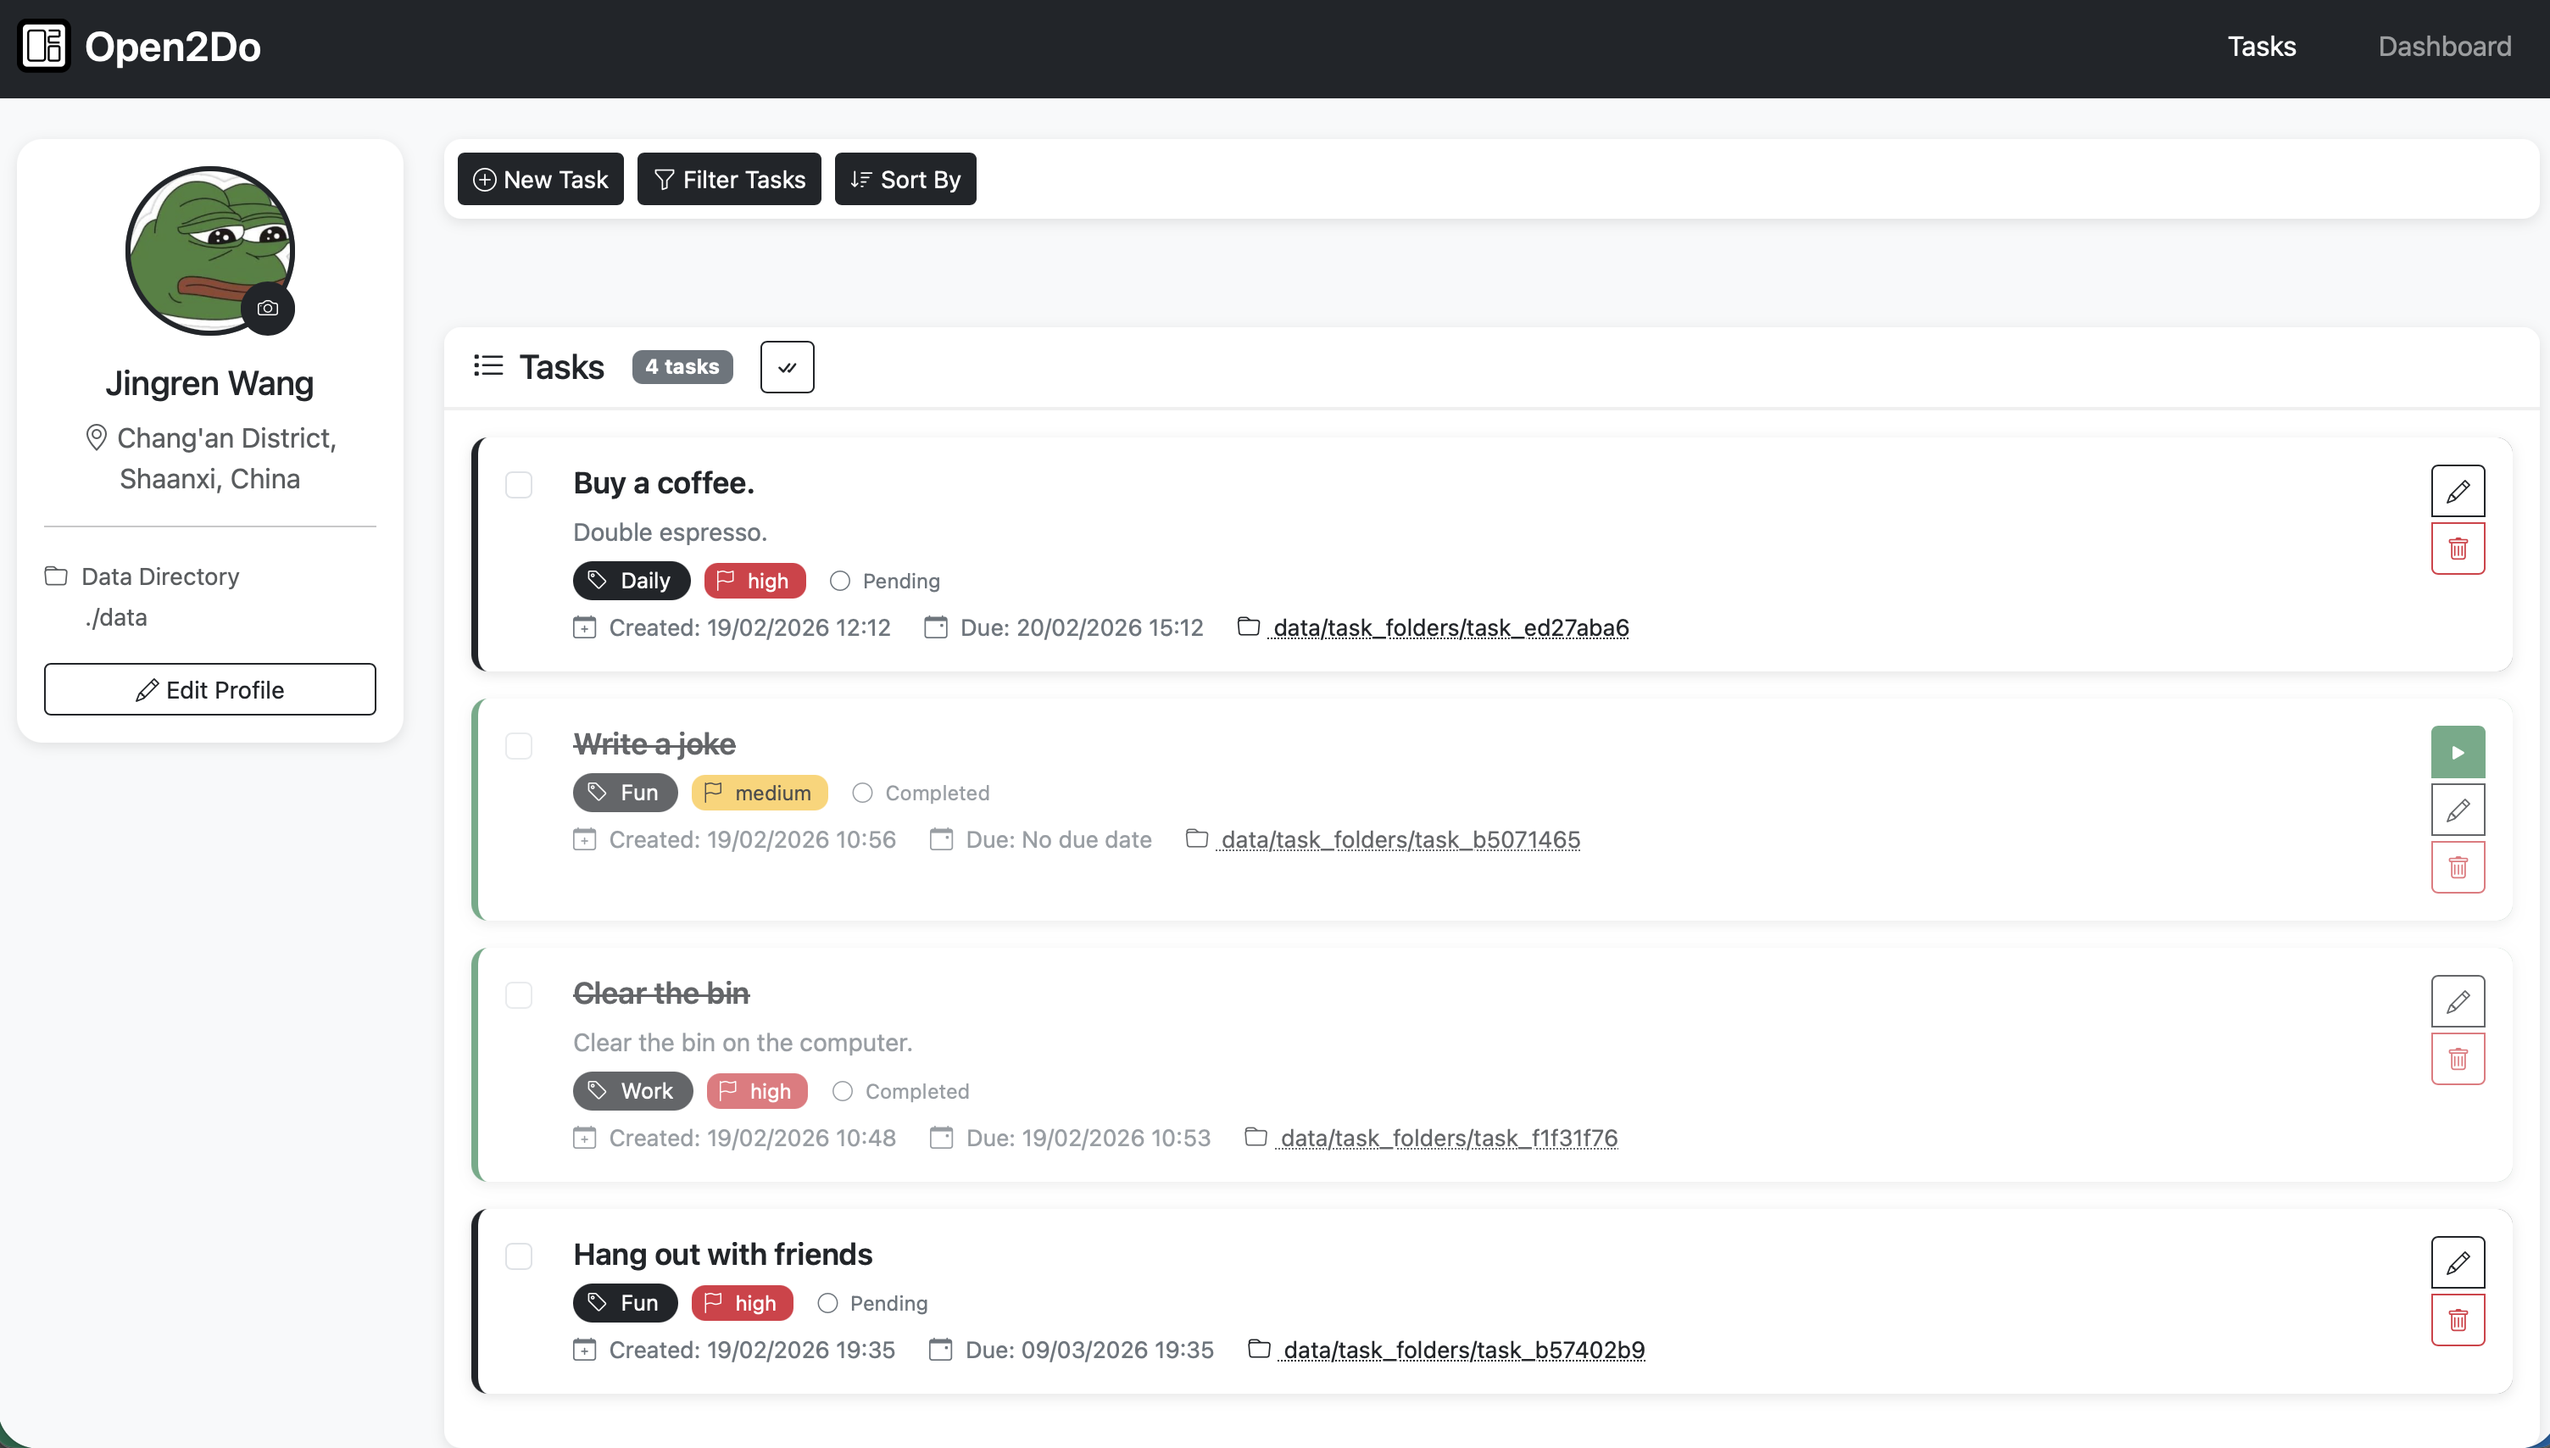
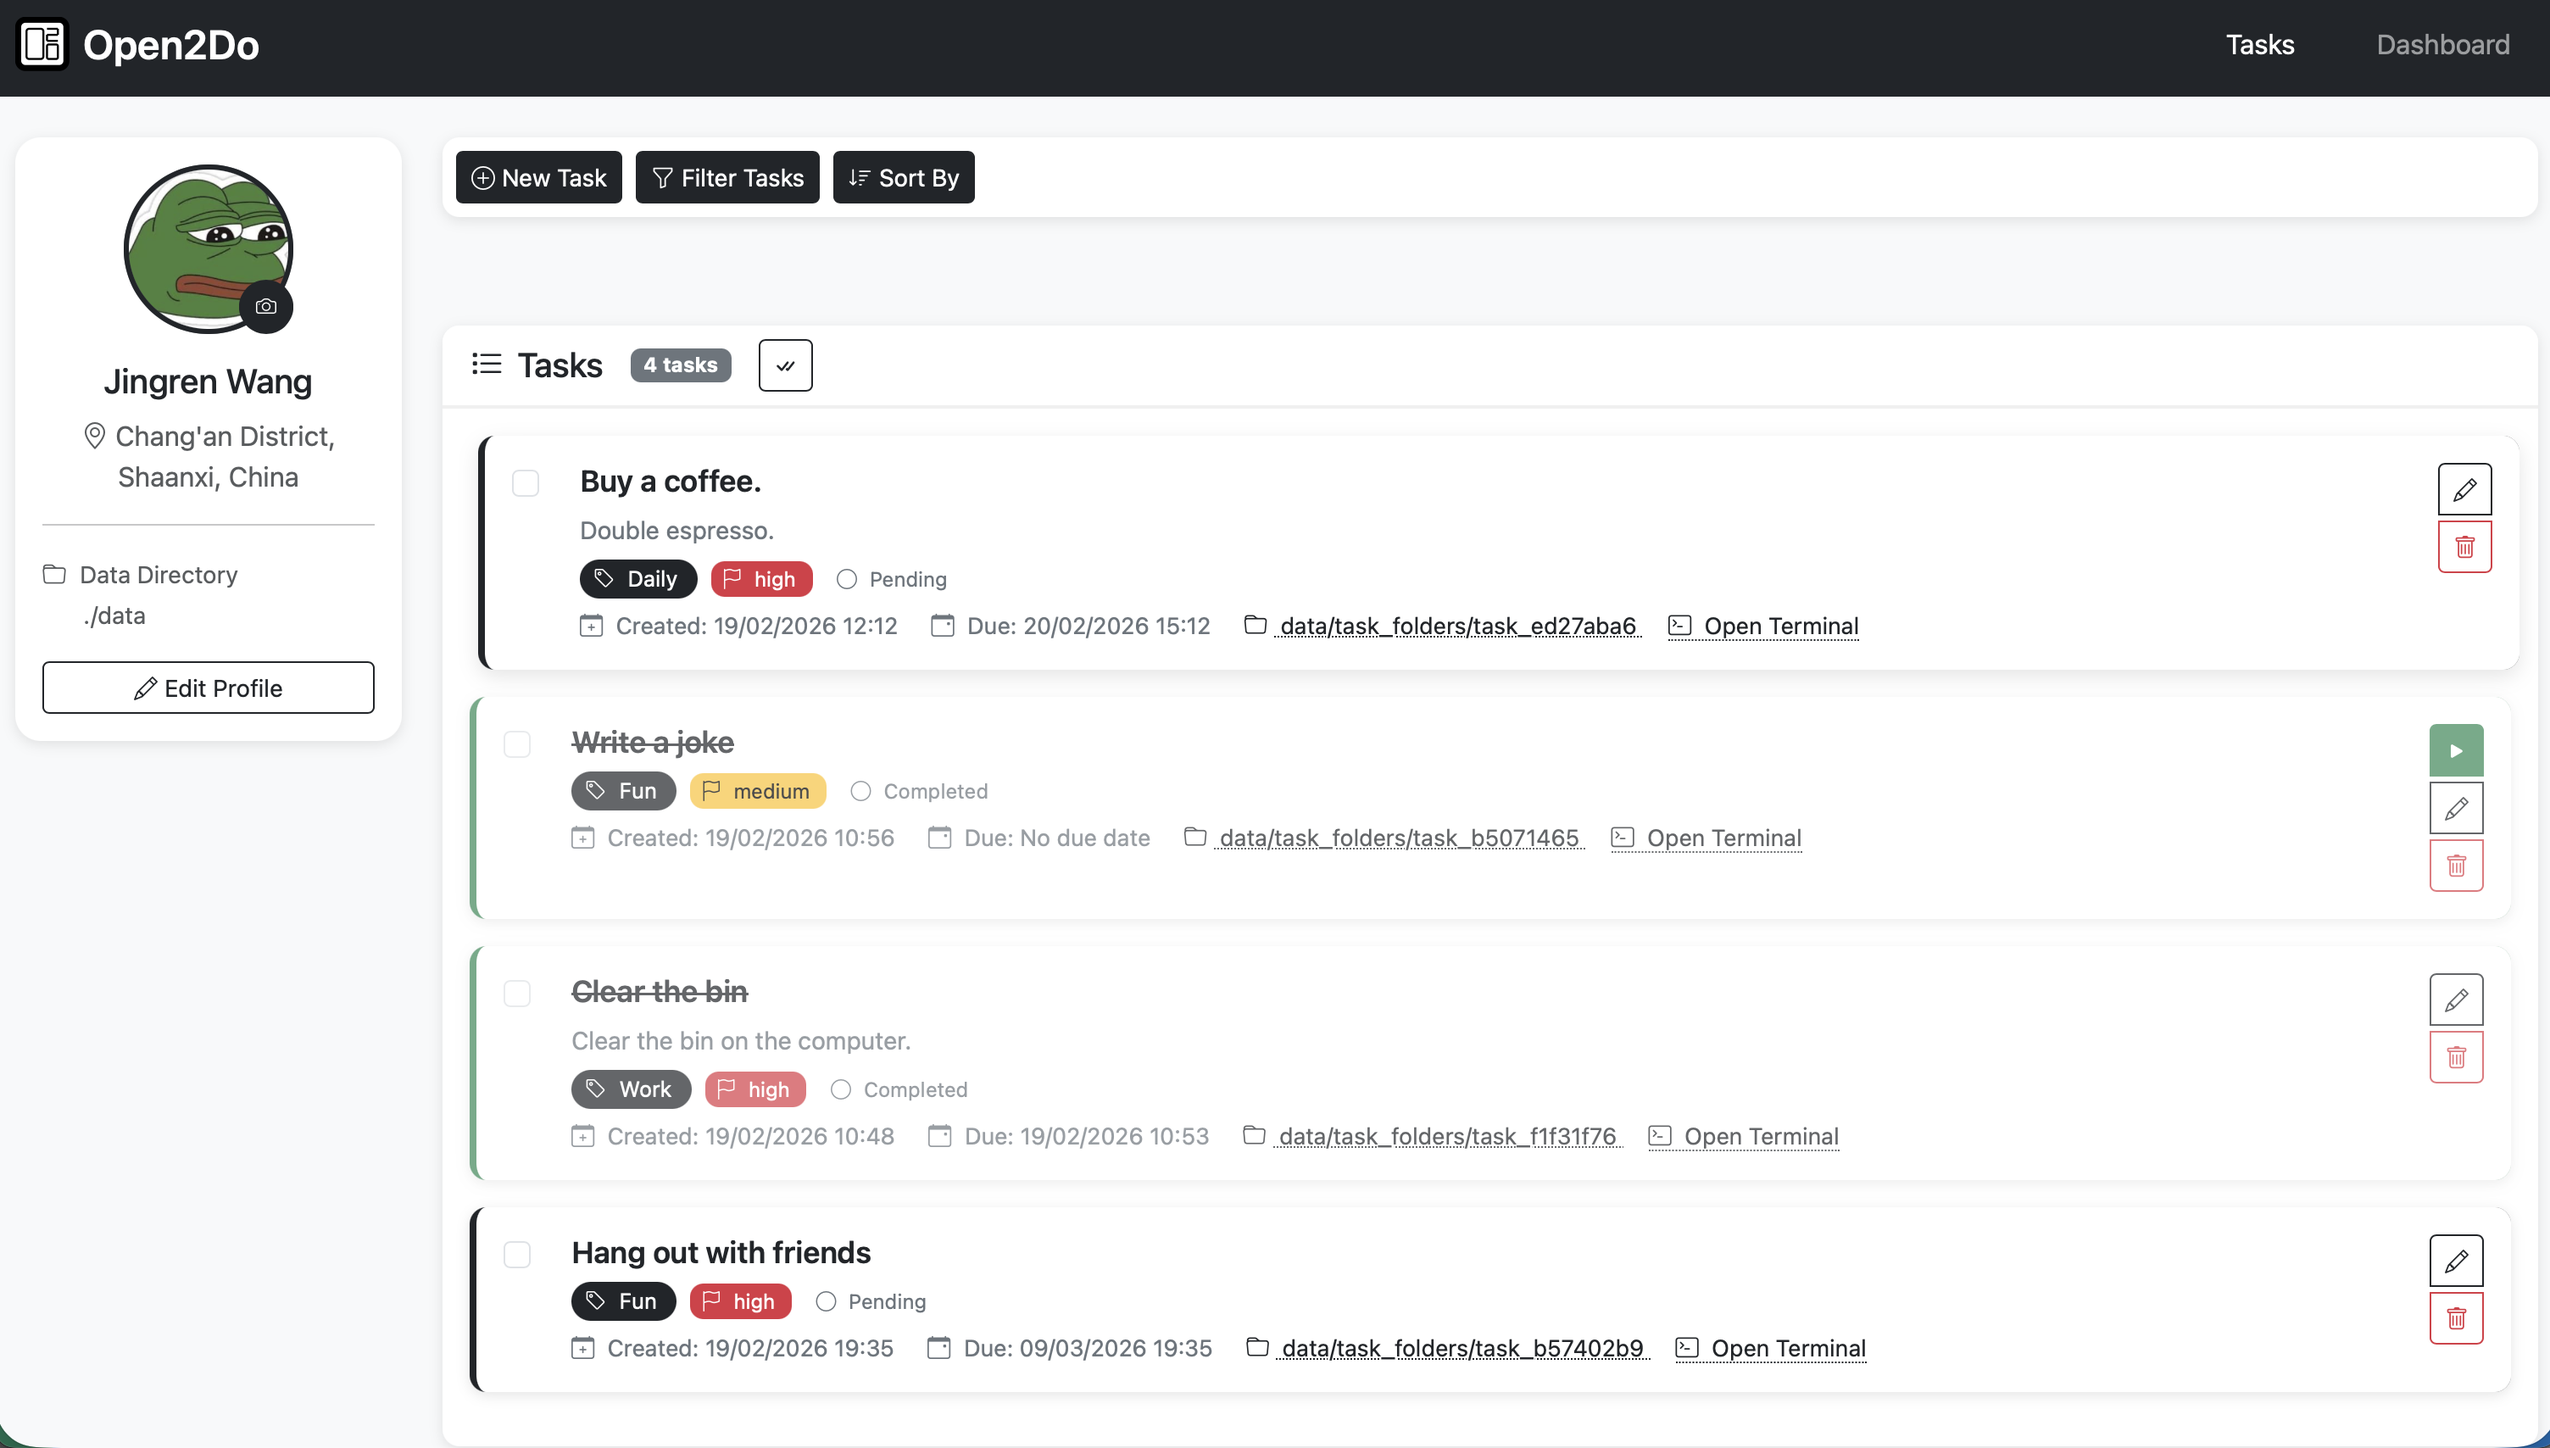
Update(Term): Handy term

diff --git a/app/static/js/app.js b/app/static/js/app.js
@@ -334,7 +334,11 @@ function createTaskCard(task) {
                                                         <span class="folder-path clickable" onclick="openFolder('${escapeHtml(task.folder_path)}')" title="Click to open folder">
                                                             <i class="bi bi-folder"></i> ${escapeHtml(task.folder_path)}
                                                         </span>
-                                                    </div>                            
+                                                        <span class="terminal-link clickable" onclick="openTerminalInFolder('${escapeHtml(task.folder_path)}')" title="Click to open terminal in this folder">
+                                                            <i class="bi bi-terminal"></i> Open Terminal
+                                                        </span>
+                                                    </div>
+                            
                             ${aiTimeHtml}
                         </div>
                     </div>
@@ -578,27 +582,46 @@ async function toggleAIAction() {
     }
 }
 
-// Open folder in file explorer
-function openFolder(folderPath) {
-    // Prevent event bubbling
-    event.stopPropagation();
-    
-    // Create an API call to open the folder
-    fetch('/api/open-folder', {
-        method: 'POST',
-        headers: { 'Content-Type': 'application/json' },
-        body: JSON.stringify({ path: folderPath })
-    })
-    .then(response => response.json())
-    .then(data => {
-        if (!data.success) {
-            alert(`Failed to open folder: ${data.message || 'Unknown error'}`);
+async function openFolder(folderPath) {
+    try {
+        const response = await fetch('/api/open-folder', {
+            method: 'POST',
+            headers: {
+                'Content-Type': 'application/json',
+            },
+            body: JSON.stringify({ path: folderPath }),
+        });
+
+        if (response.ok) {
+            showToast('Folder opened successfully', 'success');
+        } else {
+            const error = await response.json();
+            showToast(`Failed to open folder: ${error.detail}`, 'error');
         }
-    })
-    .catch(error => {
-        console.error('Error opening folder:', error);
-        alert('Error opening folder');
-    });
+    } catch (error) {
+        showToast('Failed to open folder', 'error');
+    }
+}
+
+async function openTerminalInFolder(folderPath) {
+    try {
+        const response = await fetch('/api/open-terminal', {
+            method: 'POST',
+            headers: {
+                'Content-Type': 'application/json',
+            },
+            body: JSON.stringify({ path: folderPath }),
+        });
+
+        if (response.ok) {
+            showToast('Terminal opened successfully', 'success');
+        } else {
+            const error = await response.json();
+            showToast(`Failed to open terminal: ${error.detail}`, 'error');
+        }
+    } catch (error) {
+        showToast('Failed to open terminal', 'error');
+    }
 }
 
 // Setup drag and drop functionality

diff --git a/app/static/css/styles.css b/app/static/css/styles.css
@@ -81,6 +81,19 @@ body {
     border-top: 3px solid var(--info-color);
 }
 
+.terminal-link {
+    cursor: pointer;
+    color: var(--info-color);
+    border-bottom: 1px dotted var(--info-color);
+    transition: all 0.2s;
+    margin-left: 15px;
+}
+
+.terminal-link:hover {
+    border-bottom-style: solid;
+    color: #495057;
+}
+
 .task-card:hover {
     transform: translateX(5px);
     box-shadow: 0 4px 12px rgba(0, 0, 0, 0.1);

diff --git a/app/main.py b/app/main.py
@@ -270,6 +270,51 @@ async def open_folder(request: dict):
         return {"success": False, "message": str(e)}
 
 
+@app.post("/api/open-terminal")
+async def open_terminal(request: dict):
+    """Open a terminal window in the specified folder."""
+    folder_path = request.get("path")
+    
+    if not folder_path:
+        return {"success": False, "message": "No path provided"}
+    
+    try:
+        import subprocess
+        import os
+        import platform
+        
+        # Convert relative path to absolute path
+        if not os.path.isabs(folder_path):
+            folder_path = os.path.abspath(folder_path)
+        
+        # Check if folder exists
+        if not os.path.exists(folder_path):
+            return {"success": False, "message": f"Folder does not exist: {folder_path}"}
+        
+        # Open terminal based on OS
+        system = platform.system()
+        if system == "Windows":
+            subprocess.run(["start", "cmd", "/k", f"cd /d \"{folder_path}\""], shell=True)
+        elif system == "Darwin":  # macOS
+            subprocess.run(["osascript", "-e", f'tell application "Terminal" to do script "cd \\"{folder_path}\\""'])
+        elif system == "Linux":
+            # Try common terminal emulators
+            terminals = ["gnome-terminal", "konsole", "xfce4-terminal", "xterm"]
+            for term in terminals:
+                try:
+                    subprocess.Popen([term, "--working-directory", folder_path])
+                    return {"success": True}
+                except:
+                    continue
+            return {"success": False, "message": "No terminal emulator found"}
+        else:
+            return {"success": False, "message": "Unsupported operating system"}
+        
+        return {"success": True}
+    except Exception as e:
+        return {"success": False, "message": str(e)}
+
+
 if __name__ == "__main__":
     import uvicorn
     uvicorn.run(app, host="127.0.0.1", port=8000)

diff --git a/README.md b/README.md
@@ -39,6 +39,11 @@ A modern, feature-rich local web-based TODO application with AI-powered task exe
 - **Flexible Sorting**: Sort by created date, due date, priority, or custom manual order
 - **Search Functionality**: Full-text search across task titles and descriptions
 - **Folder Integration**: Click on task folder path to open it in system file explorer
+- **Terminal Integration**: Click "Open Terminal" to launch a local terminal window directly in the task folder
+
+> [!NOTE]
+> The inplace-rendered terminal solution I tried does not have full functionality compared to a local shell. If you have better solution, feel free to launch a PR.
+
 - **User Profile**: Customizable profile with avatar upload, name editing, and location detection
 - **Configurable Data Directory**: Set custom storage location via environment variable
 
@@ -199,6 +204,10 @@ A new isolated folder will be created in `data/task_folders/` for each task.
 Each task has its own isolated workspace:
 - **Folder Path**: Displayed on each task card
 - **Click to Open**: Click the folder path to open it in your system's file explorer
+- **Open Terminal**: Click "Open Terminal" to launch a local terminal window directly in the task folder
+  - Automatically converts relative paths to absolute paths
+  - Works across Windows, macOS, and Linux
+  - Supports common terminal emulators (Terminal.app, cmd, gnome-terminal, etc.)
 - **Storage**: Task-specific files and notes can be stored here
 
 ### Dashboard Analytics
